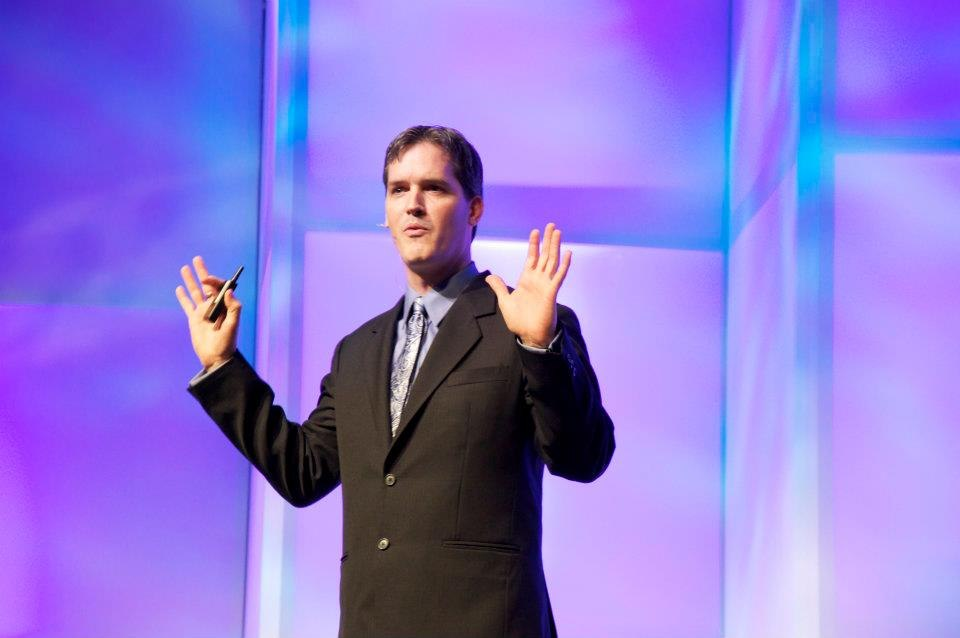
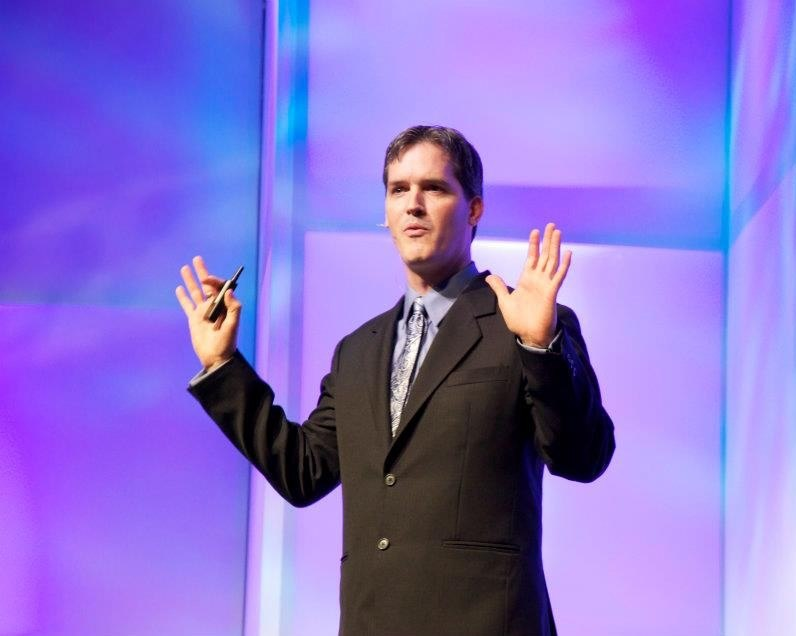
Update speaking photo with properly centered crop

diff --git a/index.html b/index.html
@@ -72,7 +72,7 @@
     <div class="about-inner">
       <div class="about-image-wrap">
         <div class="about-img-box">
-          <img src="images/calvenn-speaking.jpg" alt="Calvenn Starre Speaking" style="width:100%; height:100%; border-radius:20px; object-fit:cover; object-position:center 20%;" />
+          <img src="images/calvenn-speaking.jpg" alt="Calvenn Starre Speaking" style="width:100%; height:100%; border-radius:20px; object-fit:cover;" />
         </div>
         <div class="about-badge">
           <strong>25+</strong>
